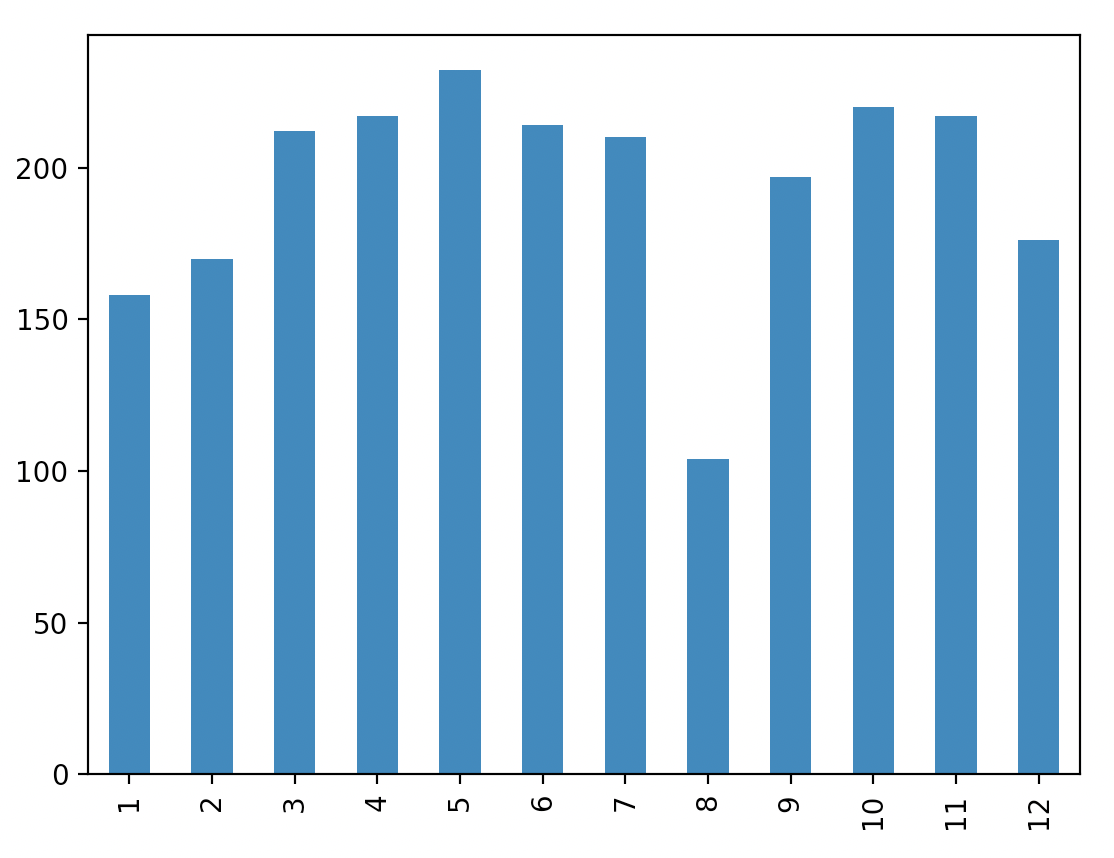
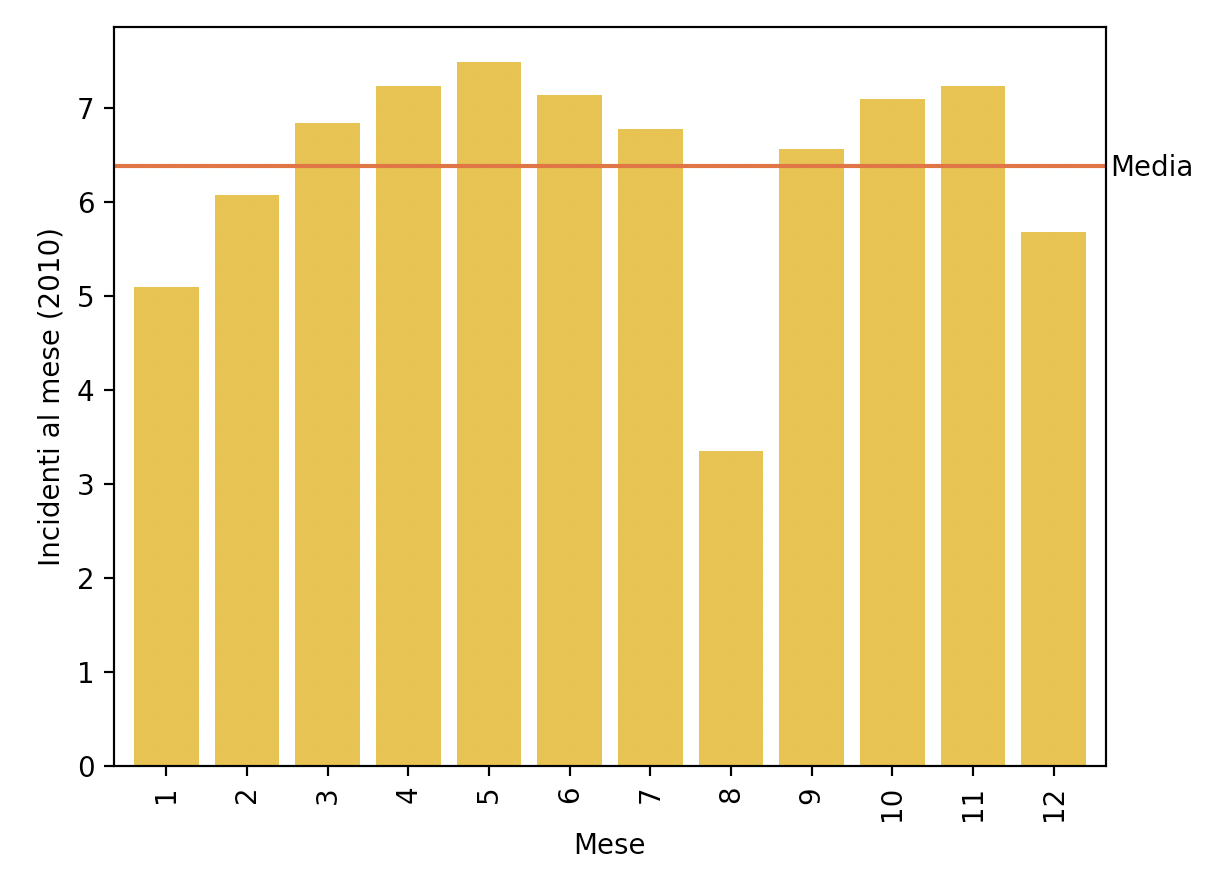
grafo

diff --git a/src/incidenti/incidenti_senza_coords/mese_incidenti/incidenti_mese_milano.py b/src/incidenti/incidenti_senza_coords/mese_incidenti/incidenti_mese_milano.py
@@ -1,0 +1,24 @@
+
+import pandas as pd
+import matplotlib.pyplot as plt
+
+path = "dataset/incidenti/incidenti_2010.txt"
+data = pd.read_csv(path, sep="\t")
+
+milano_mese = data[data['provincia'] == 15]['mese'].value_counts().sort_index()
+
+index = 0
+for giorni_in_mese in [31, 28, 31, 30, 31, 30, 31, 31, 30, 31, 30, 31]:
+    milano_mese.iloc[index] /= giorni_in_mese
+    index += 1
+
+media = milano_mese.mean()
+
+plt.xlabel("Mese")
+plt.ylabel("Incidenti al mese (2010)")
+
+plt.plot([-1, 100], [media, media], color='#e85929', label='Media')
+plt.text(11.7,media - 0.1,'Media')
+
+milano_mese.plot.bar(width=0.8, color='#e8b829')
+plt.show()
